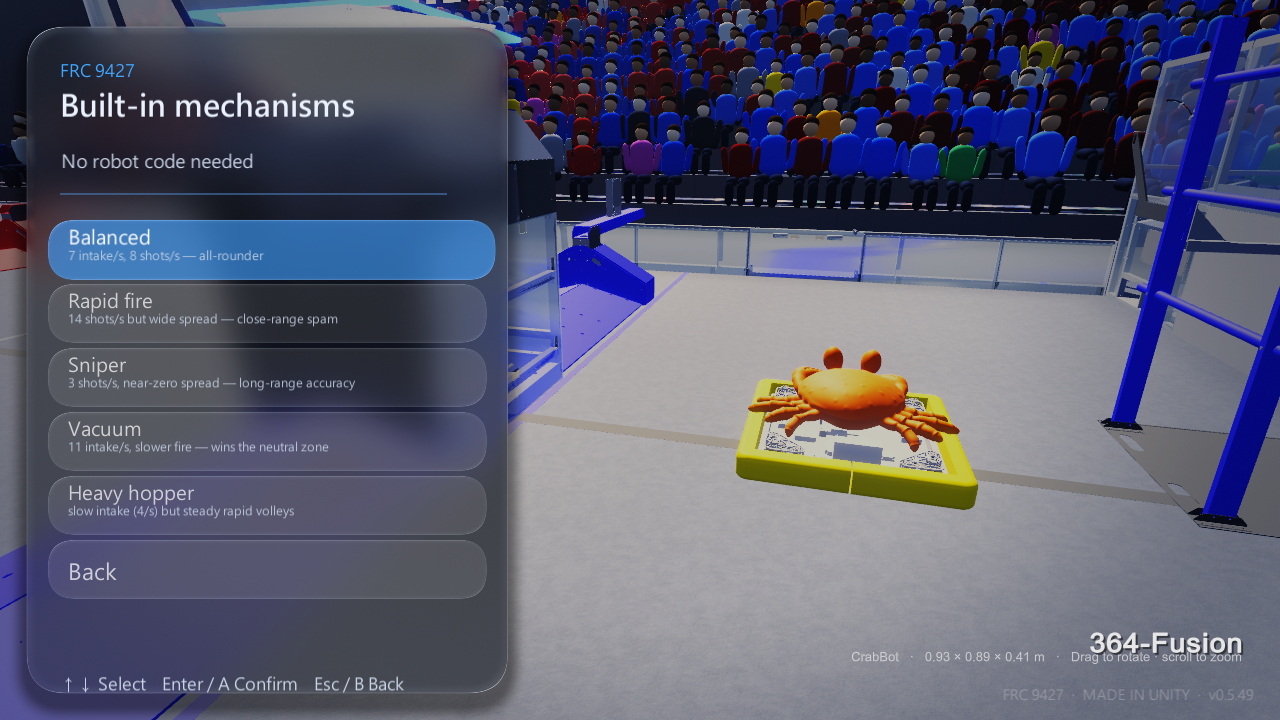
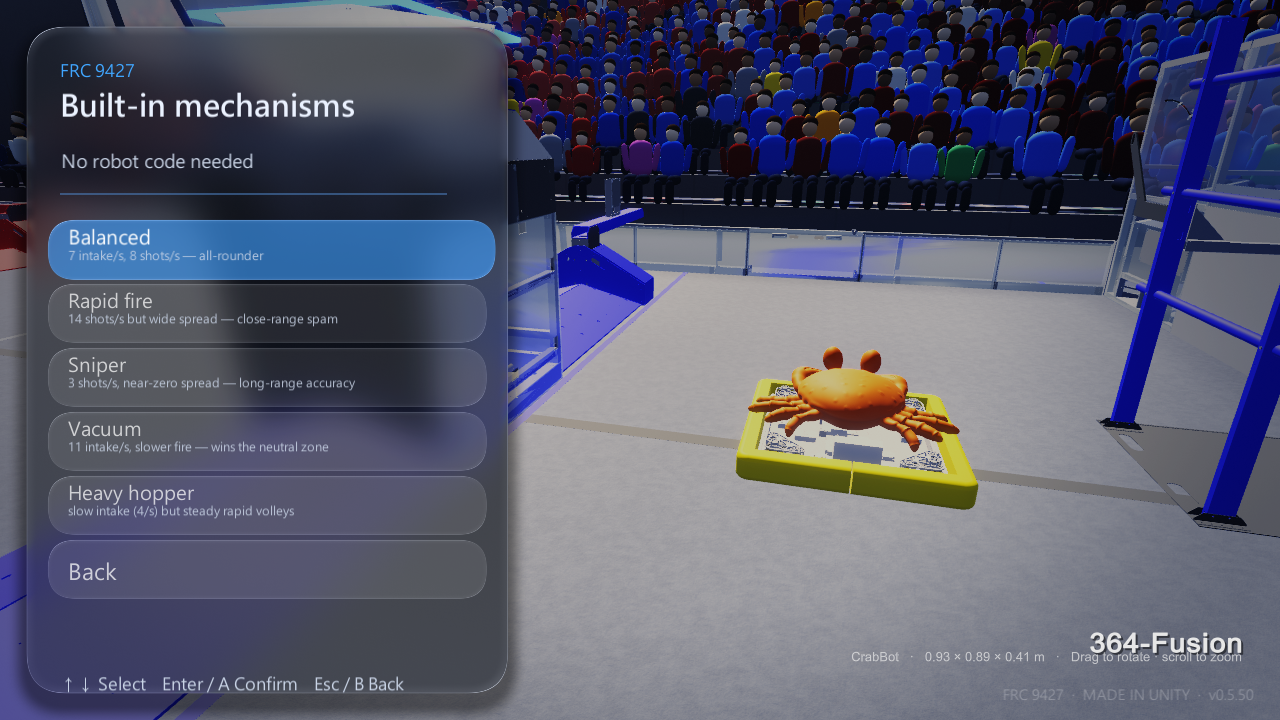
v0.5.50 premium screens + grade

diff --git a/Assets/Scripts/Sim/PostFX.cs b/Assets/Scripts/Sim/PostFX.cs
@@ -1,4 +1,4 @@
-using UnityEngine;
+using UnityEngine;
 using UnityEngine.Rendering;
 
 namespace FrcSim
@@ -21,11 +21,11 @@ namespace FrcSim
         public Shader shader;                                // optional serialized reference
 
         [Header("Tonemap / grade")]
-        public float Exposure = 1.25f;
+        public float Exposure = 1.12f;
         [Range(0, 1)] public float AcesMix = 1f;
         [Range(0, 0.6f)] public float SCurve = 0.22f;
-        public float Saturation = 1.20f;
-        public Color ShadowTint = new Color(0.93f, 0.99f, 1.07f);
+        public float Saturation = 1.06f;
+        public Color ShadowTint = new Color(0.90f, 0.97f, 1.10f);
         public Color HighlightTint = new Color(1.05f, 1.00f, 0.93f);
 
         [Header("Vignette")]

diff --git a/Assets/Scripts/Sim/UpdateCheck.cs b/Assets/Scripts/Sim/UpdateCheck.cs
@@ -17,7 +17,7 @@ namespace FrcSim
     //   找不到差異包(或失敗)時退回「開啟下載頁」,讓使用者手動下載完整版。
     public class UpdateCheck : MonoBehaviour
     {
-        public const string Current = "0.5.49";
+        public const string Current = "0.5.50";
         const string Repo = "frc9427liu-tech/FRC9427-SimApp";
         const string ReleasesApi = "https://api.github.com/repos/" + Repo + "/releases?per_page=30";
         public const string Page = "https://github.com/" + Repo + "/releases/latest";
@@ -235,6 +235,7 @@ Start-Process -FilePath $Exe -WorkingDirectory $Dst
 ";
     }
 }
+
 
 
 
